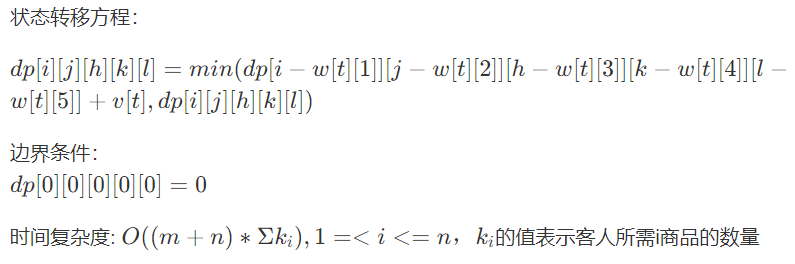
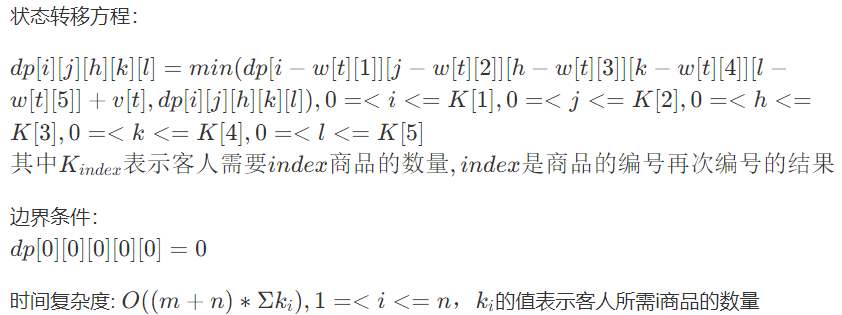
Site updated: 2023-05-20 17:15:15

diff --git a/2023/05/18/动态规划1/index.html b/2023/05/18/动态规划1/index.html
@@ -34,7 +34,7 @@
 <meta property="og:image" content="https://sunwuzhou03.github.io/images/%E5%8A%A8%E6%80%81%E8%A7%84%E5%88%921%E9%A2%98%E7%9B%AE3%E5%88%86%E6%9E%90%E5%9B%BE.png">
 <meta property="og:image" content="https://sunwuzhou03.github.io/images/%E5%8A%A8%E6%80%81%E8%A7%84%E5%88%921%E9%A2%98%E7%9B%AE3%E8%BF%90%E8%A1%8C%E7%BB%93%E6%9E%9C%E5%9B%BE.png">
 <meta property="article:published_time" content="2023-05-18T15:24:16.000Z">
-<meta property="article:modified_time" content="2023-05-20T02:54:33.749Z">
+<meta property="article:modified_time" content="2023-05-20T09:14:44.994Z">
 <meta property="article:author" content="sunwuzhou03">
 <meta property="article:tag" content="动态规划">
 <meta name="twitter:card" content="summary">
@@ -214,7 +214,7 @@
         <i class="far fa-calendar-check"></i>
       </span>
       <span class="post-meta-item-text">更新于</span>
-      <time title="修改时间：2023-05-20 10:54:33" itemprop="dateModified" datetime="2023-05-20T10:54:33+08:00">2023-05-20</time>
+      <time title="修改时间：2023-05-20 17:14:44" itemprop="dateModified" datetime="2023-05-20T17:14:44+08:00">2023-05-20</time>
     </span>
     <span class="post-meta-item">
       <span class="post-meta-item-icon">
@@ -237,7 +237,7 @@
         <i class="far fa-file-word"></i>
       </span>
       <span class="post-meta-item-text">本文字数：</span>
-      <span>5.2k</span>
+      <span>5.6k</span>
     </span>
     <span class="post-meta-item" title="阅读时长">
       <span class="post-meta-item-icon">
@@ -270,16 +270,11 @@ $O(n^2)$, $n$为数字序列长度 -->
 <h2 id="代码"><a href="#代码" class="headerlink" title="代码"></a>代码</h2><figure class="highlight c++"><table><tr><td class="gutter"><pre><span class="line">1</span><br><span class="line">2</span><br><span class="line">3</span><br><span class="line">4</span><br><span class="line">5</span><br><span class="line">6</span><br><span class="line">7</span><br><span class="line">8</span><br><span class="line">9</span><br><span class="line">10</span><br><span class="line">11</span><br><span class="line">12</span><br><span class="line">13</span><br><span class="line">14</span><br><span class="line">15</span><br><span class="line">16</span><br><span class="line">17</span><br><span class="line">18</span><br><span class="line">19</span><br><span class="line">20</span><br><span class="line">21</span><br><span class="line">22</span><br><span class="line">23</span><br><span class="line">24</span><br><span class="line">25</span><br><span class="line">26</span><br><span class="line">27</span><br><span class="line">28</span><br><span class="line">29</span><br><span class="line">30</span><br><span class="line">31</span><br><span class="line">32</span><br><span class="line">33</span><br><span class="line">34</span><br></pre></td><td class="code"><pre><span class="line"><span class="meta">#<span class="keyword">include</span> <span class="string">&lt;bits/stdc++.h&gt;</span></span></span><br><span class="line"><span class="keyword">using</span> <span class="keyword">namespace</span> std;</span><br><span class="line"><span class="function"><span class="type">int</span> <span class="title">main</span><span class="params">()</span></span></span><br><span class="line"><span class="function"></span>&#123;</span><br><span class="line">    <span class="type">int</span> n, f;</span><br><span class="line">    <span class="type">double</span> x[<span class="number">100</span>] = &#123;<span class="number">0</span>&#125;;</span><br><span class="line">    <span class="type">double</span> dp[<span class="number">100</span>][<span class="number">100</span>] = &#123;<span class="number">0.0</span>&#125;;</span><br><span class="line">    <span class="type">double</span> ans = <span class="number">0.0</span>;</span><br><span class="line">    cin &gt;&gt; n &gt;&gt; f;</span><br><span class="line">    <span class="keyword">for</span> (<span class="type">int</span> i = <span class="number">1</span>; i &lt;= n; i++)</span><br><span class="line">        cin &gt;&gt; x[i];</span><br><span class="line">    <span class="keyword">for</span> (<span class="type">int</span> i = <span class="number">1</span>; i &lt;= n; i++)<span class="comment">//枚举序列起点</span></span><br><span class="line">    &#123;</span><br><span class="line">        <span class="keyword">for</span> (<span class="type">int</span> j = <span class="number">1</span>; j &lt;= n - i + <span class="number">1</span>; j++)<span class="comment">//枚举序列长度</span></span><br><span class="line">        &#123;</span><br><span class="line">            dp[i][j] = dp[i][j - <span class="number">1</span>] + (x[i + j - <span class="number">1</span>] - dp[i][j - <span class="number">1</span>]) / j;<span class="comment">//递推公式</span></span><br><span class="line">            <span class="keyword">if</span> (j &gt;= f)<span class="comment">//求解f以上序列平均值最大值</span></span><br><span class="line">                ans = <span class="built_in">max</span>(ans, dp[i][j]); </span><br><span class="line">        &#125;</span><br><span class="line">    &#125;</span><br><span class="line">    <span class="comment">//for (int i = 1; i &lt;= n; i++)//打印各个序列的平均值，便于观察</span></span><br><span class="line">    <span class="comment">//&#123;</span></span><br><span class="line">    <span class="comment">//    for (int j = 1; j &lt;= n; j++)</span></span><br><span class="line">    <span class="comment">//        printf(&quot;%8lf &quot;, dp[i][j]);</span></span><br><span class="line">    <span class="comment">//    cout &lt;&lt; endl;</span></span><br><span class="line">    <span class="comment">//&#125;</span></span><br><span class="line">    <span class="built_in">printf</span>(<span class="string">&quot;%.3lf\n&quot;</span>, ans);<span class="comment">//输出最终结果</span></span><br><span class="line">    <span class="keyword">return</span> <span class="number">0</span>;</span><br><span class="line">&#125;</span><br><span class="line"><span class="comment">/*</span></span><br><span class="line"><span class="comment">10 6</span></span><br><span class="line"><span class="comment">6 4 2 10 3 8 5 9 4 1</span></span><br><span class="line"><span class="comment">*/</span></span><br><span class="line"></span><br></pre></td></tr></table></figure>
 <h2 id="运行结果"><a href="#运行结果" class="headerlink" title="运行结果"></a>运行结果</h2><p><img src="/images/动态规划1题目1运行结果图.png" alt=" "></p>
 <h1 id="题目2"><a href="#题目2" class="headerlink" title="题目2"></a>题目2</h1><h2 id="题面-1"><a href="#题面-1" class="headerlink" title="题面"></a>题面</h2><p>商店为了促销往往将若干个商品捆绑在一起以低于商品原来的价格进行销售，这样可以鼓励顾客购买更多的商品。请帮助顾客计算他最少能以多少的价格才能购买到他所需的商品。注意，他不希望购买的商品与他的要求不符，也就是他购买的商品既不能多也不能少。<br>输入要求：<br>输入的第一行包含一个整数n（0&lt;=n&lt;=5），表示该顾客需要购买的商品的信息。其后的n行，每一行有三个整数c (1 &lt;= c &lt;= 999),k(1 &lt;= k &lt;= 5),p (1 &lt;= p &lt;= 999)，分别表示商品的编号c，购买该商品的数量k 以及该商品的单价p；之后的一行是一个整数m (0 &lt;= m &lt;= 99)，表示可以选择的优惠类型；其后的m行，每一行表示一种优惠类型。每一行的第一个数是一个整数s (1 &lt;= s &lt;= 5)，表示该种优惠包含多少个可以捆绑在一起的优惠商品，每一个捆绑的商品都包含该商品的编号c以及对应的数量h(1 &lt;= h &lt;= 5), 最后一个是该种捆绑优惠的商品的总价格t(1 &lt;= t &lt;= 9999)。比如某种捆绑优惠包含2种不同的商品，第一种商品的编号为7，数量为1，第二种商品的编号为8，数量为2，总的价格为10，则该种捆绑优惠可表示为：<br>2 7 1 8 2 10<br>输出要求：<br>输出一个整数，占一行，表示购买所需商品的最低价格。<br>输入样例：<br>2<br>7 3 2<br>8 2 5<br>2<br>1 7 3 5<br>2 7 1 8 2 10<br>输出样例：<br>14</p>
-<h2 id="分析-1"><a href="#分析-1" class="headerlink" title="分析"></a>分析</h2><p>为了方便求解问题，我们做以下处理，将单个商品处理成一种优惠，仔细阅读题目信息可以发现题目中所给s $&lt;=$5 且客人要求所买商品不能多也不能少，因此每种优惠的总商品数不会超过5个，我们考虑使用完全背包和多种物品背包的思想，使用ccode数组储存对客服需求商品的编号的编码，不需要的商品编码为0，用 $w[i][j]$ 表示第i个礼包商品j的数量，$v[i]$ 表示第i个礼包的价格，我们可以设置以下$dp$数组<br>$dp[i][j][h][k][l]$ 表示第1种商品需要i件，第2种商品需要j件……</p>
-<!-- 状态转移方程：
-
-$dp[i][j][h][k][l] = min(dp[i - w[t][1]] [j - w[t][2]] [h - w[t][3]] [k - w[t][4]] [l - w[t][5]] + v[t], dp[i][j][h][k][l])$
-
-边界条件：
-$ dp[0][0][0][0][0] = 0$
-
-时间复杂度: $O((m+n)* \Sigma k_i), 1=<i<=n，k_i$的值表示客人所需i商品的数量 -->
-<p><img src="/images/动态规划1题目2分析图.png" alt=" "></p>
+<h2 id="分析-1"><a href="#分析-1" class="headerlink" title="分析"></a>分析</h2><p>为了方便求解问题，我们做以下处理，将单个商品处理成一种优惠，仔细阅读题目信息可以发现题目中所给s $&lt;=$5 且客人要求所买商品不能多也不能少，因此每种优惠的总商品数不会超过5个，我们考虑使用完全背包和多种物品背包的思想，使用ccode数组储存对客服需求商品的编号的编码，不需要的商品编码为0，用 $w[i][j]$ 表示第i个礼包商品j的数量，$v[i]$ 表示第i个礼包的价格，我们可以设置以下$dp$数组<br>$dp[i][j][h][k][l]$ 表示第1种商品需要i件，第2种商品需要j件……的最小花费</p>
+<p>状态转移方程：</p>
+<p>$dp[i][j][h][k][l] = min(dp[i - w[t][1]] [j - w[t][2]] [h - w[t][3]] [k - w[t][4]] [l - w[t][5]] + v[t], dp[i][j][h][k][l]), 0=&lt;i&lt;=K[1], 0=&lt;j&lt;=K[2], 0=&lt;h&lt;=K[3], 0=&lt;k&lt;=K[4], 0=&lt;l&lt;=K[5]$<br>$其中K_{index}表示客人需要index商品的数量, index是商品的编号再次编号的结果$</p>
+<p>边界条件：<br>$ dp[0][0][0][0][0] = 0$</p>
+<p>时间复杂度: $O((m+n)* \Sigma k_i), 1=&lt;i&lt;=n，k_i$的值表示客人所需i商品的数量<br><img src="/images/动态规划1题目2分析图.png" alt=" "></p>
 <h2 id="代码-1"><a href="#代码-1" class="headerlink" title="代码"></a>代码</h2><figure class="highlight c++"><table><tr><td class="gutter"><pre><span class="line">1</span><br><span class="line">2</span><br><span class="line">3</span><br><span class="line">4</span><br><span class="line">5</span><br><span class="line">6</span><br><span class="line">7</span><br><span class="line">8</span><br><span class="line">9</span><br><span class="line">10</span><br><span class="line">11</span><br><span class="line">12</span><br><span class="line">13</span><br><span class="line">14</span><br><span class="line">15</span><br><span class="line">16</span><br><span class="line">17</span><br><span class="line">18</span><br><span class="line">19</span><br><span class="line">20</span><br><span class="line">21</span><br><span class="line">22</span><br><span class="line">23</span><br><span class="line">24</span><br><span class="line">25</span><br><span class="line">26</span><br><span class="line">27</span><br><span class="line">28</span><br><span class="line">29</span><br><span class="line">30</span><br><span class="line">31</span><br><span class="line">32</span><br><span class="line">33</span><br><span class="line">34</span><br><span class="line">35</span><br><span class="line">36</span><br><span class="line">37</span><br><span class="line">38</span><br><span class="line">39</span><br><span class="line">40</span><br><span class="line">41</span><br><span class="line">42</span><br><span class="line">43</span><br><span class="line">44</span><br><span class="line">45</span><br><span class="line">46</span><br><span class="line">47</span><br><span class="line">48</span><br><span class="line">49</span><br><span class="line">50</span><br><span class="line">51</span><br><span class="line">52</span><br><span class="line">53</span><br><span class="line">54</span><br><span class="line">55</span><br><span class="line">56</span><br><span class="line">57</span><br><span class="line">58</span><br><span class="line">59</span><br><span class="line">60</span><br><span class="line">61</span><br><span class="line">62</span><br><span class="line">63</span><br><span class="line">64</span><br><span class="line">65</span><br><span class="line">66</span><br><span class="line">67</span><br><span class="line">68</span><br><span class="line">69</span><br><span class="line">70</span><br><span class="line">71</span><br><span class="line">72</span><br><span class="line">73</span><br></pre></td><td class="code"><pre><span class="line"><span class="meta">#<span class="keyword">include</span> <span class="string">&lt;bits/stdc++.h&gt;</span></span></span><br><span class="line"><span class="keyword">using</span> <span class="keyword">namespace</span> std;</span><br><span class="line"><span class="type">int</span> dp[<span class="number">7</span>][<span class="number">6</span>][<span class="number">6</span>][<span class="number">6</span>][<span class="number">6</span>];</span><br><span class="line"><span class="type">int</span> ccode[<span class="number">1000</span>];</span><br><span class="line"><span class="type">int</span> need[<span class="number">1000</span>];</span><br><span class="line"><span class="type">int</span> tmax;</span><br><span class="line"><span class="type">int</span> w[<span class="number">11</span>][<span class="number">11</span>]; <span class="comment">// w[i][j]表示第i个礼包商品j的数量</span></span><br><span class="line"><span class="type">int</span> v[<span class="number">11</span>];     <span class="comment">// v[i]表示第i个礼包的价格</span></span><br><span class="line"><span class="type">int</span> n, m;</span><br><span class="line"><span class="function"><span class="type">int</span> <span class="title">dfs</span><span class="params">(<span class="type">int</span> i, <span class="type">int</span> j, <span class="type">int</span> h, <span class="type">int</span> k, <span class="type">int</span> l)</span></span></span><br><span class="line"><span class="function"></span>&#123;</span><br><span class="line">    <span class="comment">// cout &lt;&lt; i &lt;&lt; &quot; &quot; &lt;&lt; j &lt;&lt; &quot; &quot; &lt;&lt; h &lt;&lt; &quot; &quot; &lt;&lt; k &lt;&lt; &quot; &quot; &lt;&lt; l &lt;&lt; &quot; &quot; &lt;&lt; dp[i][j][h][k][l] &lt;&lt; endl;</span></span><br><span class="line">    <span class="keyword">if</span> (dp[i][j][h][k][l] != dp[<span class="number">6</span>][<span class="number">0</span>][<span class="number">0</span>][<span class="number">0</span>][<span class="number">0</span>])<span class="comment">//当前值已经求过返回当前值</span></span><br><span class="line">        <span class="keyword">return</span> dp[i][j][h][k][l];</span><br><span class="line">    <span class="keyword">for</span> (<span class="type">int</span> t = <span class="number">1</span>; t &lt;= m + n; t++)</span><br><span class="line">    &#123;</span><br><span class="line">        <span class="comment">// cout &lt;&lt; &quot;t=&quot; &lt;&lt; t &lt;&lt; endl;</span></span><br><span class="line">        <span class="keyword">if</span> (i - w[t][<span class="number">1</span>] &lt; <span class="number">0</span> || j - w[t][<span class="number">2</span>] &lt; <span class="number">0</span> || h - w[t][<span class="number">3</span>] &lt; <span class="number">0</span> || k - w[t][<span class="number">4</span>] &lt; <span class="number">0</span> || l - w[t][<span class="number">5</span>] &lt; <span class="number">0</span>)</span><br><span class="line">            <span class="keyword">continue</span>;</span><br><span class="line">        dp[i][j][h][k][l] = <span class="built_in">min</span>(<span class="built_in">dfs</span>(i - w[t][<span class="number">1</span>], j - w[t][<span class="number">2</span>], h - w[t][<span class="number">3</span>], k - w[t][<span class="number">4</span>], l - w[t][<span class="number">5</span>]) + v[t], dp[i][j][h][k][l]);</span><br><span class="line">    &#125;</span><br><span class="line">    <span class="keyword">return</span> dp[i][j][h][k][l];</span><br><span class="line">&#125;</span><br><span class="line"><span class="function"><span class="type">int</span> <span class="title">main</span><span class="params">()</span></span></span><br><span class="line"><span class="function"></span>&#123;</span><br><span class="line">    cin &gt;&gt; n;</span><br><span class="line">    <span class="built_in">memset</span>(dp, <span class="number">127</span>, <span class="built_in">sizeof</span>(dp));<span class="comment">//dp数组初始化为一个极大值</span></span><br><span class="line">    <span class="built_in">memset</span>(w, <span class="number">0</span>, <span class="built_in">sizeof</span>(w));</span><br><span class="line">    <span class="built_in">memset</span>(v, <span class="number">0</span>, <span class="built_in">sizeof</span>(v));</span><br><span class="line">    <span class="built_in">memset</span>(need, <span class="number">0</span>, <span class="built_in">sizeof</span>(need));</span><br><span class="line">    dp[<span class="number">0</span>][<span class="number">0</span>][<span class="number">0</span>][<span class="number">0</span>][<span class="number">0</span>] = <span class="number">0</span>;</span><br><span class="line">    <span class="keyword">for</span> (<span class="type">int</span> i = <span class="number">1</span>; i &lt;= n; i++)<span class="comment">//将单独购买看成一个只有一种商品的优惠，价格为单价</span></span><br><span class="line">    &#123;</span><br><span class="line">        <span class="type">int</span> c, k, p;</span><br><span class="line">        cin &gt;&gt; c &gt;&gt; k &gt;&gt; p;</span><br><span class="line">        need[i] = k;<span class="comment">//存储客人所需商品i的数量</span></span><br><span class="line">        ccode[c] = i;</span><br><span class="line">        w[i][i] = <span class="number">1</span>;</span><br><span class="line">        v[i] = p;</span><br><span class="line">    &#125;</span><br><span class="line">    cin &gt;&gt; m;</span><br><span class="line">    <span class="keyword">for</span> (<span class="type">int</span> i = n + <span class="number">1</span>; i &lt;= n + m; i++)</span><br><span class="line">    &#123;</span><br><span class="line">        <span class="type">int</span> s, p;</span><br><span class="line">        cin &gt;&gt; s;</span><br><span class="line">        <span class="keyword">for</span> (<span class="type">int</span> j = <span class="number">1</span>; j &lt;= s; j++)</span><br><span class="line">        &#123;</span><br><span class="line">            <span class="type">int</span> c, h;</span><br><span class="line">            cin &gt;&gt; c &gt;&gt; h;</span><br><span class="line">            w[i][ccode[c]] = h;</span><br><span class="line">        &#125;</span><br><span class="line">        cin &gt;&gt; p;</span><br><span class="line">        v[i] = p;</span><br><span class="line">    &#125;</span><br><span class="line">    <span class="comment">// for (int i = 1; i &lt;= n + m; i++)</span></span><br><span class="line">    <span class="comment">// &#123;</span></span><br><span class="line">    <span class="comment">//     for (int j = 1; j &lt;= 10; j++)</span></span><br><span class="line">    <span class="comment">//     &#123;</span></span><br><span class="line">    <span class="comment">//         cout &lt;&lt; w[i][j] &lt;&lt; &quot; &quot;;</span></span><br><span class="line">    <span class="comment">//     &#125;</span></span><br><span class="line">    <span class="comment">//     cout &lt;&lt; v[i] &lt;&lt; endl;</span></span><br><span class="line">    <span class="comment">// &#125;</span></span><br><span class="line">    cout &lt;&lt; <span class="built_in">dfs</span>(need[<span class="number">1</span>], need[<span class="number">2</span>], need[<span class="number">3</span>], need[<span class="number">4</span>], need[<span class="number">5</span>]);</span><br><span class="line">    <span class="keyword">return</span> <span class="number">0</span>;</span><br><span class="line">&#125;</span><br><span class="line"><span class="comment">/*</span></span><br><span class="line"><span class="comment">2</span></span><br><span class="line"><span class="comment">7 3 2</span></span><br><span class="line"><span class="comment">8 2 5</span></span><br><span class="line"><span class="comment">2</span></span><br><span class="line"><span class="comment">1 7 3 5</span></span><br><span class="line"><span class="comment">2 7 1 8 2 10</span></span><br><span class="line"><span class="comment">*/</span></span><br></pre></td></tr></table></figure>
 <h2 id="运行结果-1"><a href="#运行结果-1" class="headerlink" title="运行结果"></a>运行结果</h2><p><img src="/images/动态规划1题目2运行结果图.png" alt=" "></p>
 <h1 id="题目3"><a href="#题目3" class="headerlink" title="题目3"></a>题目3</h1><h2 id="题面-2"><a href="#题面-2" class="headerlink" title="题面"></a>题面</h2><p>定义树中某结点的平衡为删除该结点后所形成的森林中各树结点数的最大值。如下图左边的树，如果删除其中的一个结点3，则该树变成右边的森林，也就是多棵树，这些树的结点数分别为6，1，1，1，其最大值为6，因此结点3的平衡为6。<br><img src="/images/动态规划1题目3图.png" alt=" "><br>在给定一棵树的情况下，求该树中所有结点的最小平衡数。<br>输入要求：<br>输入的第一行是一个整数n（(1 &lt;= n&lt;= 20)，表示测试数据的组数。每一组测试数据的第一行是一个整数m (1 &lt;= m &lt;= 20,000)，表示树中的一对结点，其后的N-1行，每一行包含两个整数，表示树中相连的两个结点。树中结点的编号从1开始编号。<br>输出要求：<br>对于每一组测试数据输出一行，表示该树中所有结点的平衡数的最小值。<br>输入样例：<br>1<br>9<br>1 2<br>1 3<br>1 4<br>2 5<br>3 6<br>3 7<br>3 8<br>4 9<br>4 10<br>输出样例：<br>4</p>

diff --git a/default-index/index.html b/default-index/index.html
@@ -201,7 +201,7 @@
         <i class="far fa-calendar-check"></i>
       </span>
       <span class="post-meta-item-text">更新于</span>
-      <time title="修改时间：2023-05-20 10:54:33" itemprop="dateModified" datetime="2023-05-20T10:54:33+08:00">2023-05-20</time>
+      <time title="修改时间：2023-05-20 17:14:44" itemprop="dateModified" datetime="2023-05-20T17:14:44+08:00">2023-05-20</time>
     </span>
     <span class="post-meta-item">
       <span class="post-meta-item-icon">
@@ -224,7 +224,7 @@
         <i class="far fa-file-word"></i>
       </span>
       <span class="post-meta-item-text">本文字数：</span>
-      <span>5.2k</span>
+      <span>5.6k</span>
     </span>
     <span class="post-meta-item" title="阅读时长">
       <span class="post-meta-item-icon">

diff --git a/css/main.css b/css/main.css
@@ -2451,7 +2451,7 @@ header.header {
   vertical-align: middle;
 }
 .links-of-author a::before {
-  background: #cbf085;
+  background: #e3bfd1;
   display: inline-block;
   margin-right: 3px;
   transform: translateY(-2px);

diff --git a/en/css/main.css b/en/css/main.css
@@ -2444,7 +2444,7 @@ header.header {
   vertical-align: middle;
 }
 .links-of-author a::before {
-  background: #ff0dff;
+  background: #081bb3;
   display: inline-block;
   margin-right: 3px;
   transform: translateY(-2px);
